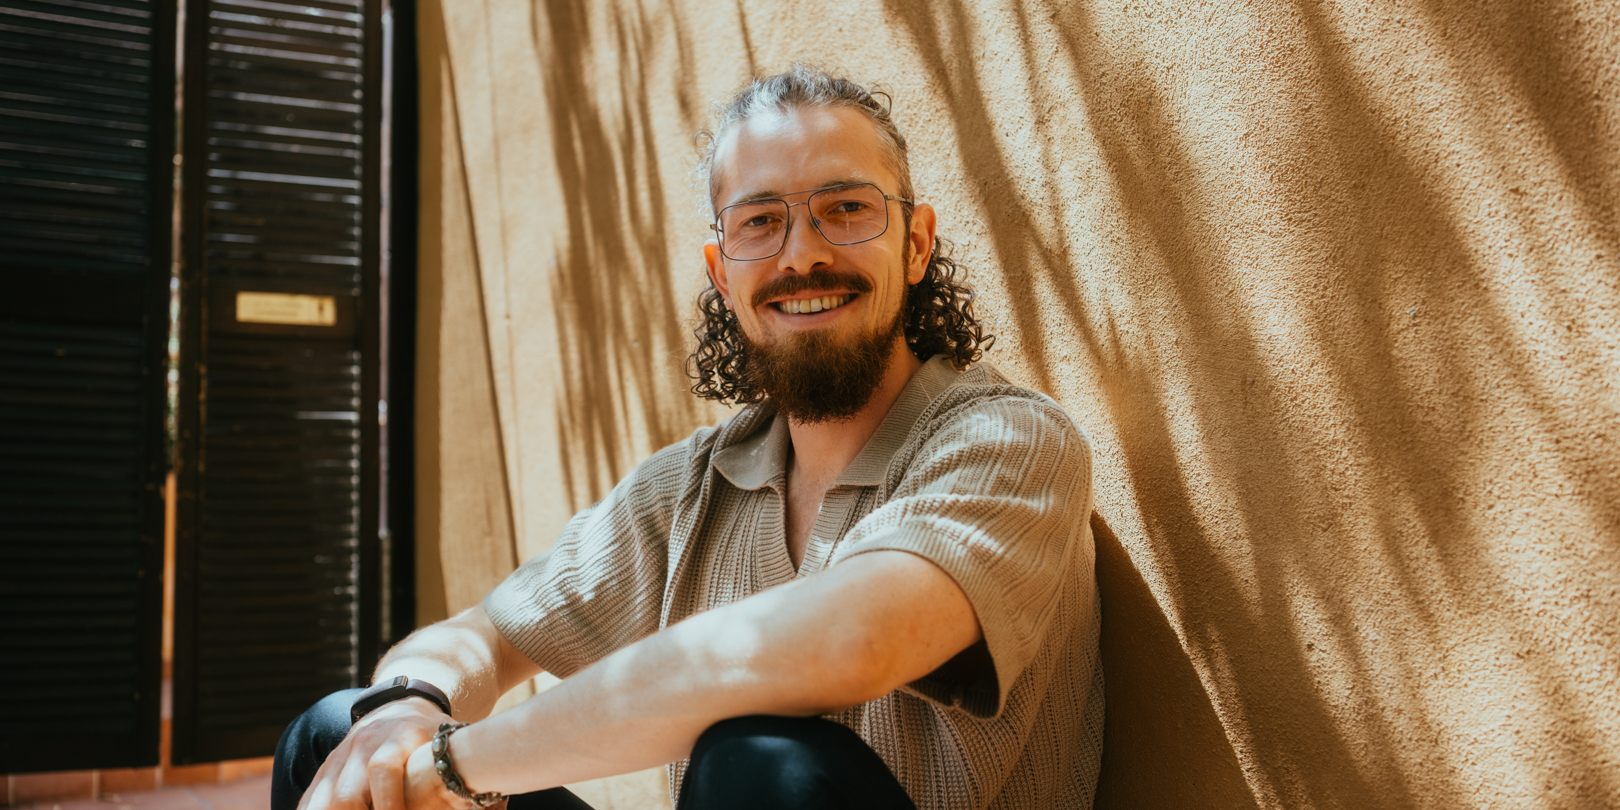
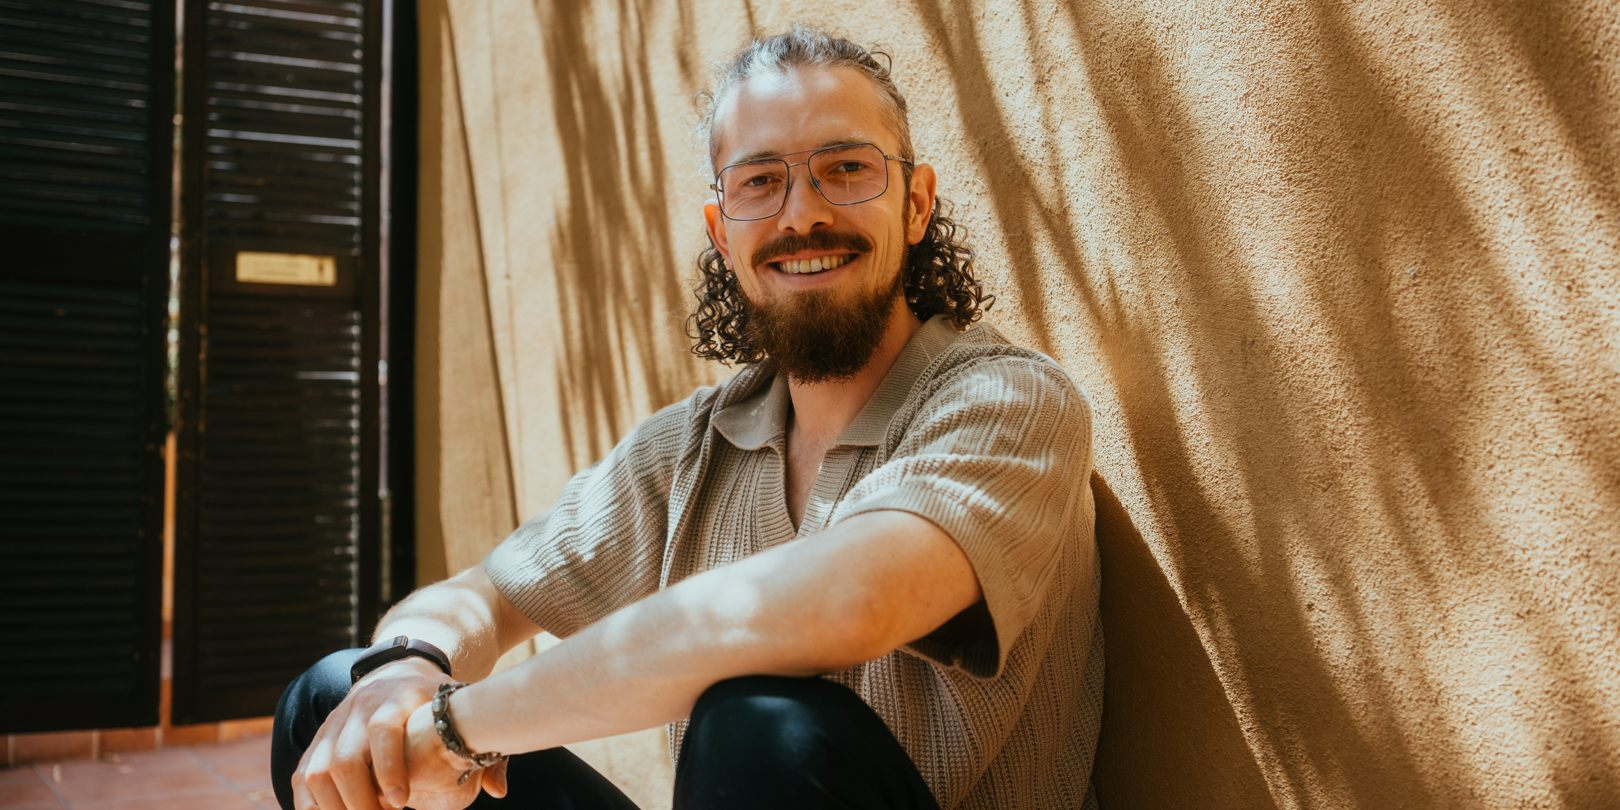
Kopfbild: voller 2:1-Ausschnitt mit ganzem Kopf und Oberkoerper (Zuschnitt tiefer, keine Hoehenkopplung)

diff --git a/assets/site.css b/assets/site.css
@@ -804,8 +804,8 @@ body.links-navy h1,body.links-navy h2,body.links-navy h3{color:var(--cream)}
 @media (min-width:900px){
   .kopf{padding-top:var(--sp-1)}
   .kopf-bild{width:min(1180px, 100% - clamp(28px,6vw,108px));margin-inline:auto;border-radius:var(--radius)}
-  .kopf-bild img{height:clamp(340px, 50vh, 600px)}
-  .js.foto .kopf-bild img{height:560px}
+  /* Michael 16.09.: ganzer Kopf und Oberkörper — Bild zeigt den vollen 2:1-Ausschnitt, keine Höhenkopplung */
+  .kopf-bild img{height:auto;aspect-ratio:2/1}
 }
 .kopf-text{width:min(46rem, 100% - clamp(28px,6vw,80px));margin:var(--sp-2) auto 0}
 .kopf-name{font-family:var(--display);font-size:var(--t-2);line-height:1.1;color:var(--ink)}
